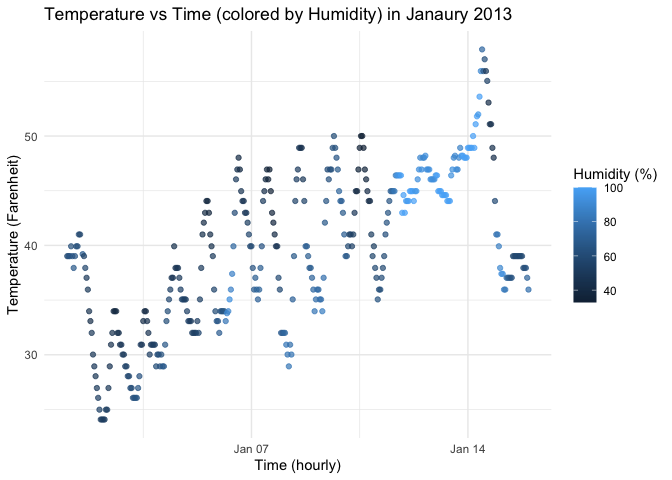
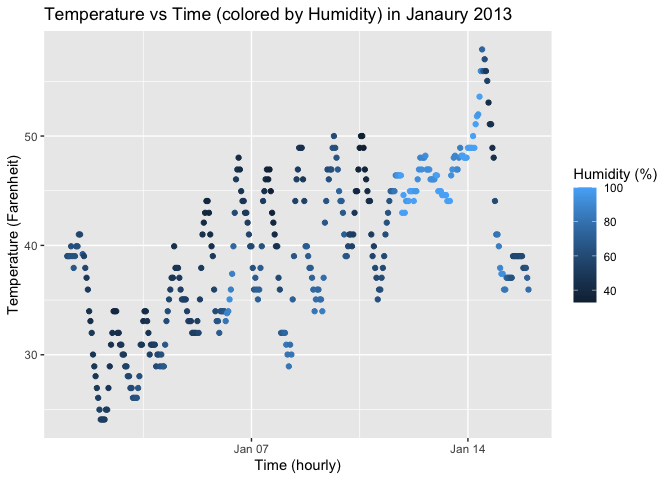
HOMEWORK FINAL DRAFT

diff --git a/p8105_hw1_nrl2142.md b/p8105_hw1_nrl2142.md
@@ -2,7 +2,7 @@ p8105_hw1_nrl2142
 ================
 2025-09-14
 
-# Problem 1
+## Problem 1
 
 ``` r
 library(tidyverse)
@@ -10,46 +10,46 @@ library(ggplot2)
 library(moderndive)
 ```
 
-# Short Description of the Dataset
-
 ``` r
 data("early_january_weather")
 ```
 
-This dataset contains 358 rows and 15 columns. There are 15 variables
-such as: **origin**: site where weather was recorded. **year, month,
-day, hour, time_hour**: date and time information for each observation.
-**temp**: temperature in Farenheit. **humid**: humidity (percentage).
-**wind_dir**: wind direction in degrees. **wind_speed**: wind speed in
-mph. **wind_gust**: maximum wind gust in mph. **precip**: precipitation
-in inches. **pressure**: atmospheric pressure in millibars. **visib**:
-visibility in miles. The mean temperature is 39.5821229 farenheit.
+## Short Description of the Dataset
 
-# Making a Scatterplot
+This dataset contains 358 rows and 15 columns. There are 15 variables in
+this dataset which are: **origin**: site where weather was recorded.
+**year, month, day, hour, time_hour**: date and time information for
+each observation. **temp**: temperature in Farenheit. **humid**:
+humidity (percentage). **wind_dir**: wind direction in degrees.
+**wind_speed**: wind speed in mph. **wind_gust**: maximum wind gust in
+mph. **precip**: precipitation in inches. **pressure**: atmospheric
+pressure in millibars. **visib**: visibility in miles. The mean
+temperature is 39.5821229 farenheit.
+
+## Making a Scatterplot
 
 ``` r
 ggplot(early_january_weather,
        aes(x = time_hour, y = temp, color = humid)) +
-  geom_point(alpha = 0.7) +
+  geom_point() +
   labs(
     title = "Temperature vs Time (colored by Humidity) in Janaury 2013",
     x = "Time (hourly)",
     y = "Temperature (Farenheit)",
     color = "Humidity (%)"
-  ) +
-  theme_minimal()
+  )
 ```
 
 ![](p8105_hw1_nrl2142_files/figure-gfm/unnamed-chunk-3-1.png)<!-- -->
 
-# Description of Scatterplot
+## Description of Scatterplot
 
 There isn’t a clear linear relationship between temperature and humidity
 from the scatterplot. However, lower temperatures are often associated
 with lower humidity levels as represented by the darker colors in the
 scatterplot.
 
-# Export the Scatterplot
+## Export the Scatterplot
 
 ``` r
 ggsave(filename = "temp_vs_time_scatter.png")
@@ -57,9 +57,9 @@ ggsave(filename = "temp_vs_time_scatter.png")
 
     ## Saving 7 x 5 in image
 
-# Problem 2
+## Problem 2
 
-# Creating the Dataframe
+## Creating the Dataframe
 
 ``` r
 num <- rnorm(10)
@@ -70,7 +70,7 @@ tier <- factor(c("low","med","high","low","med","high","low","med","high","low")
 df <- tibble(num = num, is_pos = is_pos, color = color, tier = tier)
 ```
 
-# Trying to take the means of each variable
+## Trying to take the means of each variable
 
 ``` r
 mean(pull(df,num))
@@ -96,13 +96,13 @@ mean(pull(df,tier))
 
     ## [1] NA
 
-# Writeup
+## Writeup
 
 Character variable `color` and factor variable `tier` gives errors when
 trying to take the mean. However, numeric mean 0.0746256 and logical
 mean 0.5 works.
 
-# Trying coercion with `as.numeric()`
+## Trying coercion with `as.numeric()`
 
 ``` r
 as.numeric(df$is_pos)
@@ -111,15 +111,15 @@ as.numeric(df$tier)
 as.numeric(df$color)
 ```
 
-# What happens and why? Is the mean still meaningful?
+## What happens and why? Is the mean still meaningful?
 
 Character variables produce NA and gives a warning message. This is
 because “yellow” does not have a numeric representation so R can’t turn
-it into a number. Factors work and according to Google, it’s because
-they are assigned integer codes (1,2,3) and the mean just ends up being
-the average code. Taking the means of these codes will no have real
-meaning in the context of categories unless if it is being used to
-describe severity. According to Google, in R, TRUE is internally stored
-as 1 and FALSE as 0 so coercing to numeric will just reveal this
-encoding. Taking the mean will explain what happens as the mean of the
-logical vector will still give us the proportion of TRUE values.
+it into a number. Factor variables work because they are assigned
+integer codes (1,2,3) and the mean just ends up being the average code.
+Taking the means of these codes will no have real meaning in the context
+of categories unless if it is being used to describe severity. In R,
+TRUE is internally stored as 1 and FALSE as 0 so coercing to numeric
+will just reveal this encoding. Taking the mean is still meaningful as
+the mean of the logical vector will still give us the proportion of TRUE
+values.
